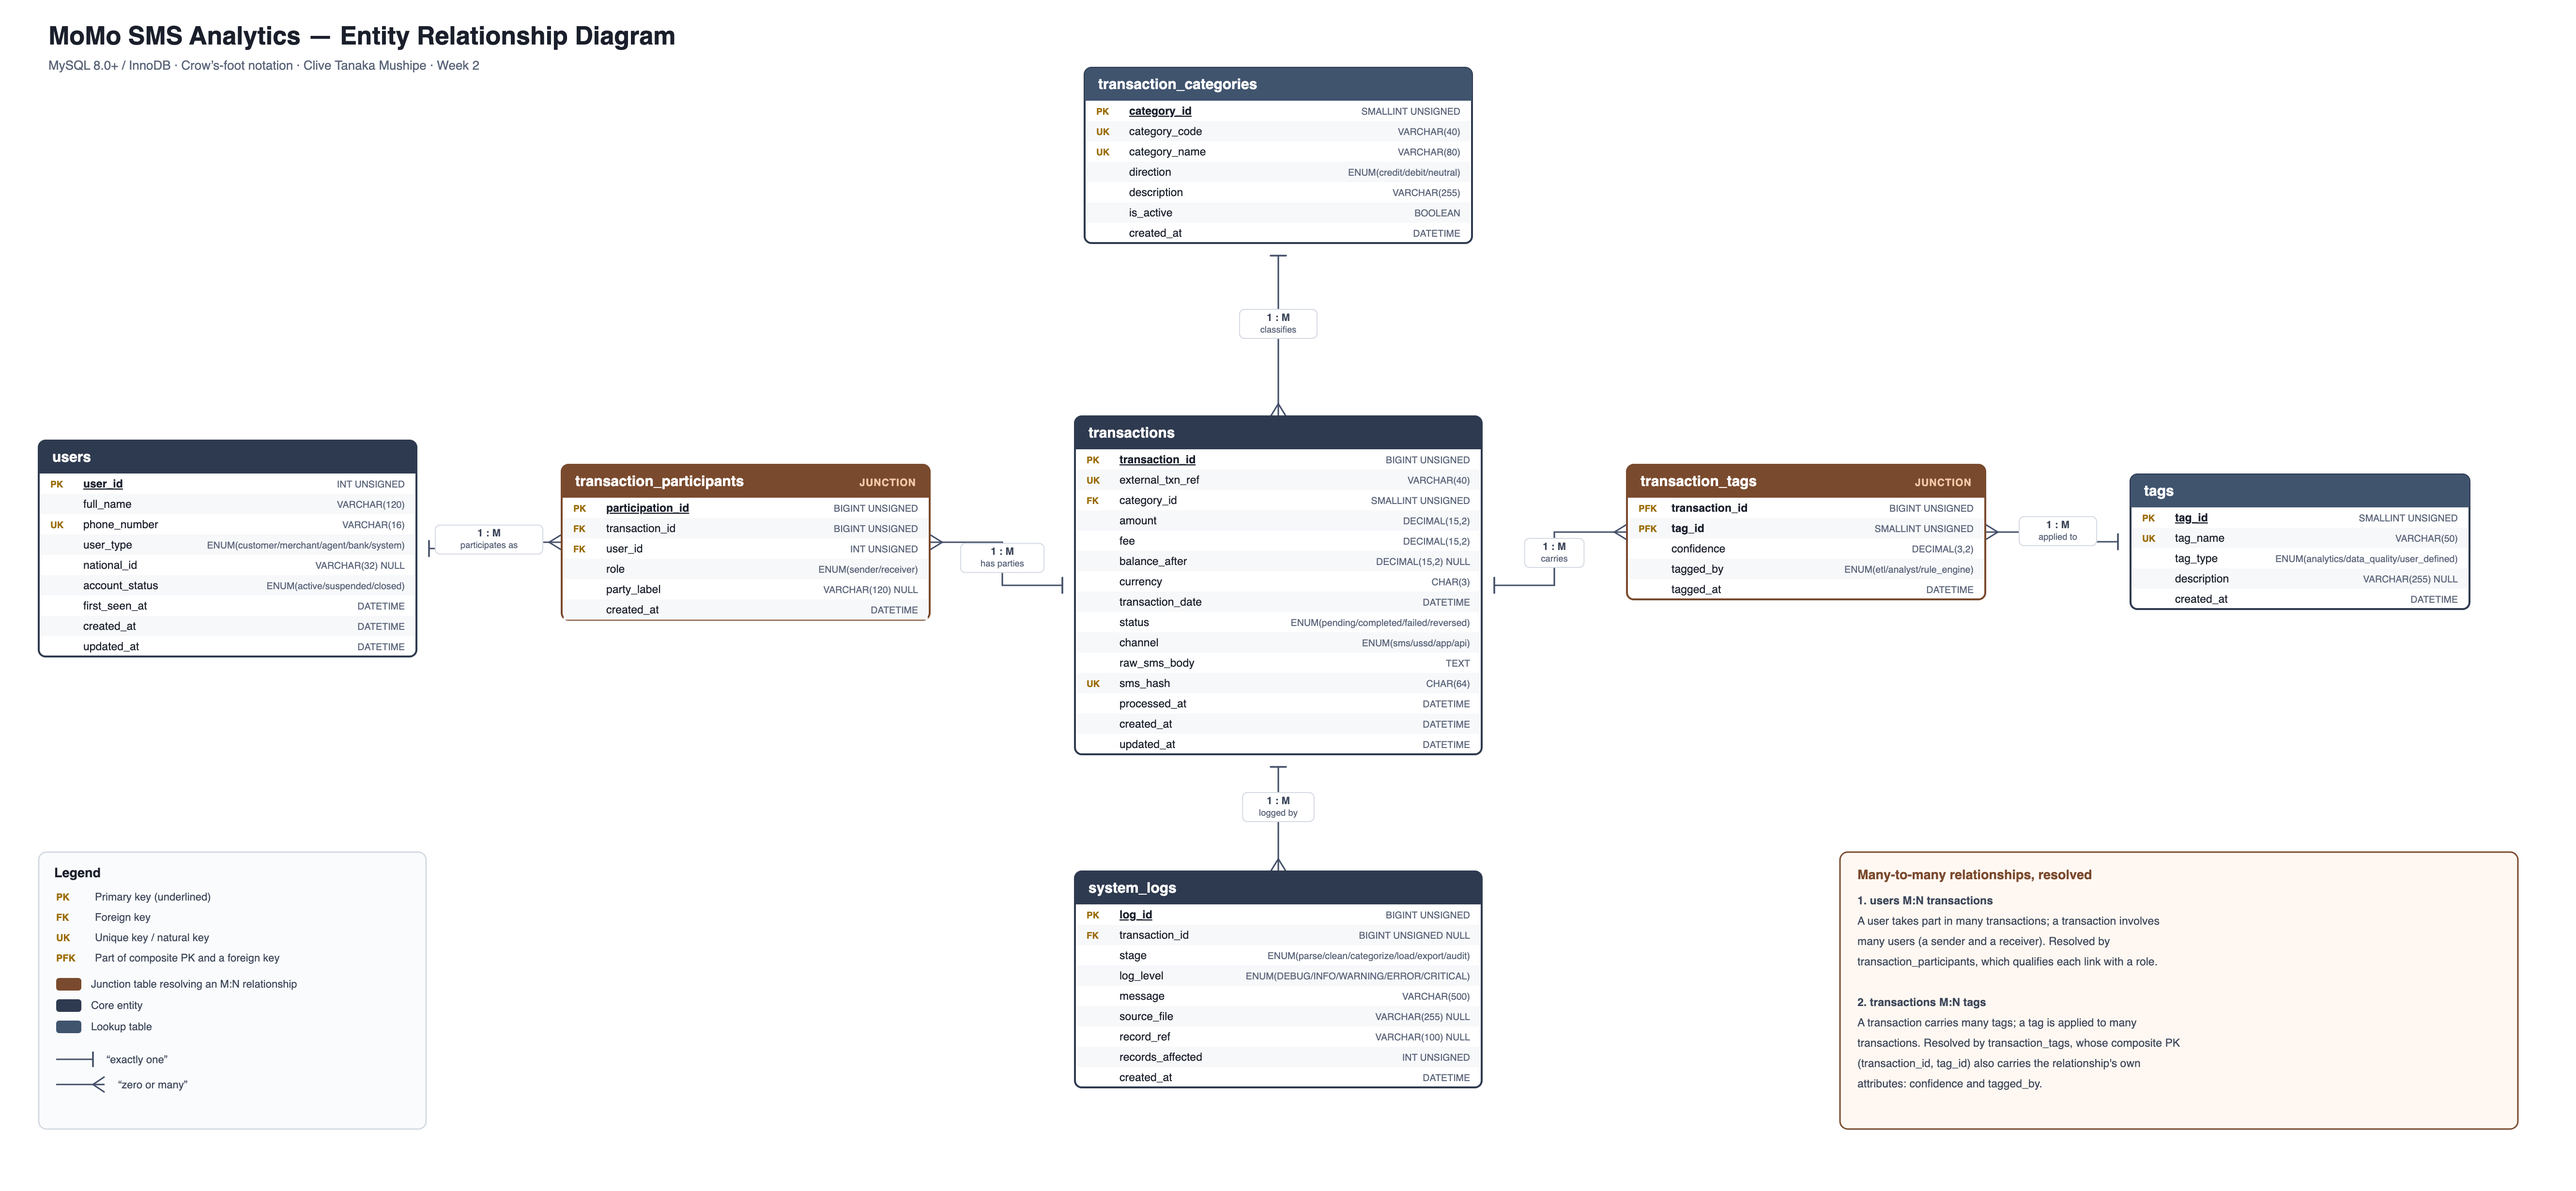
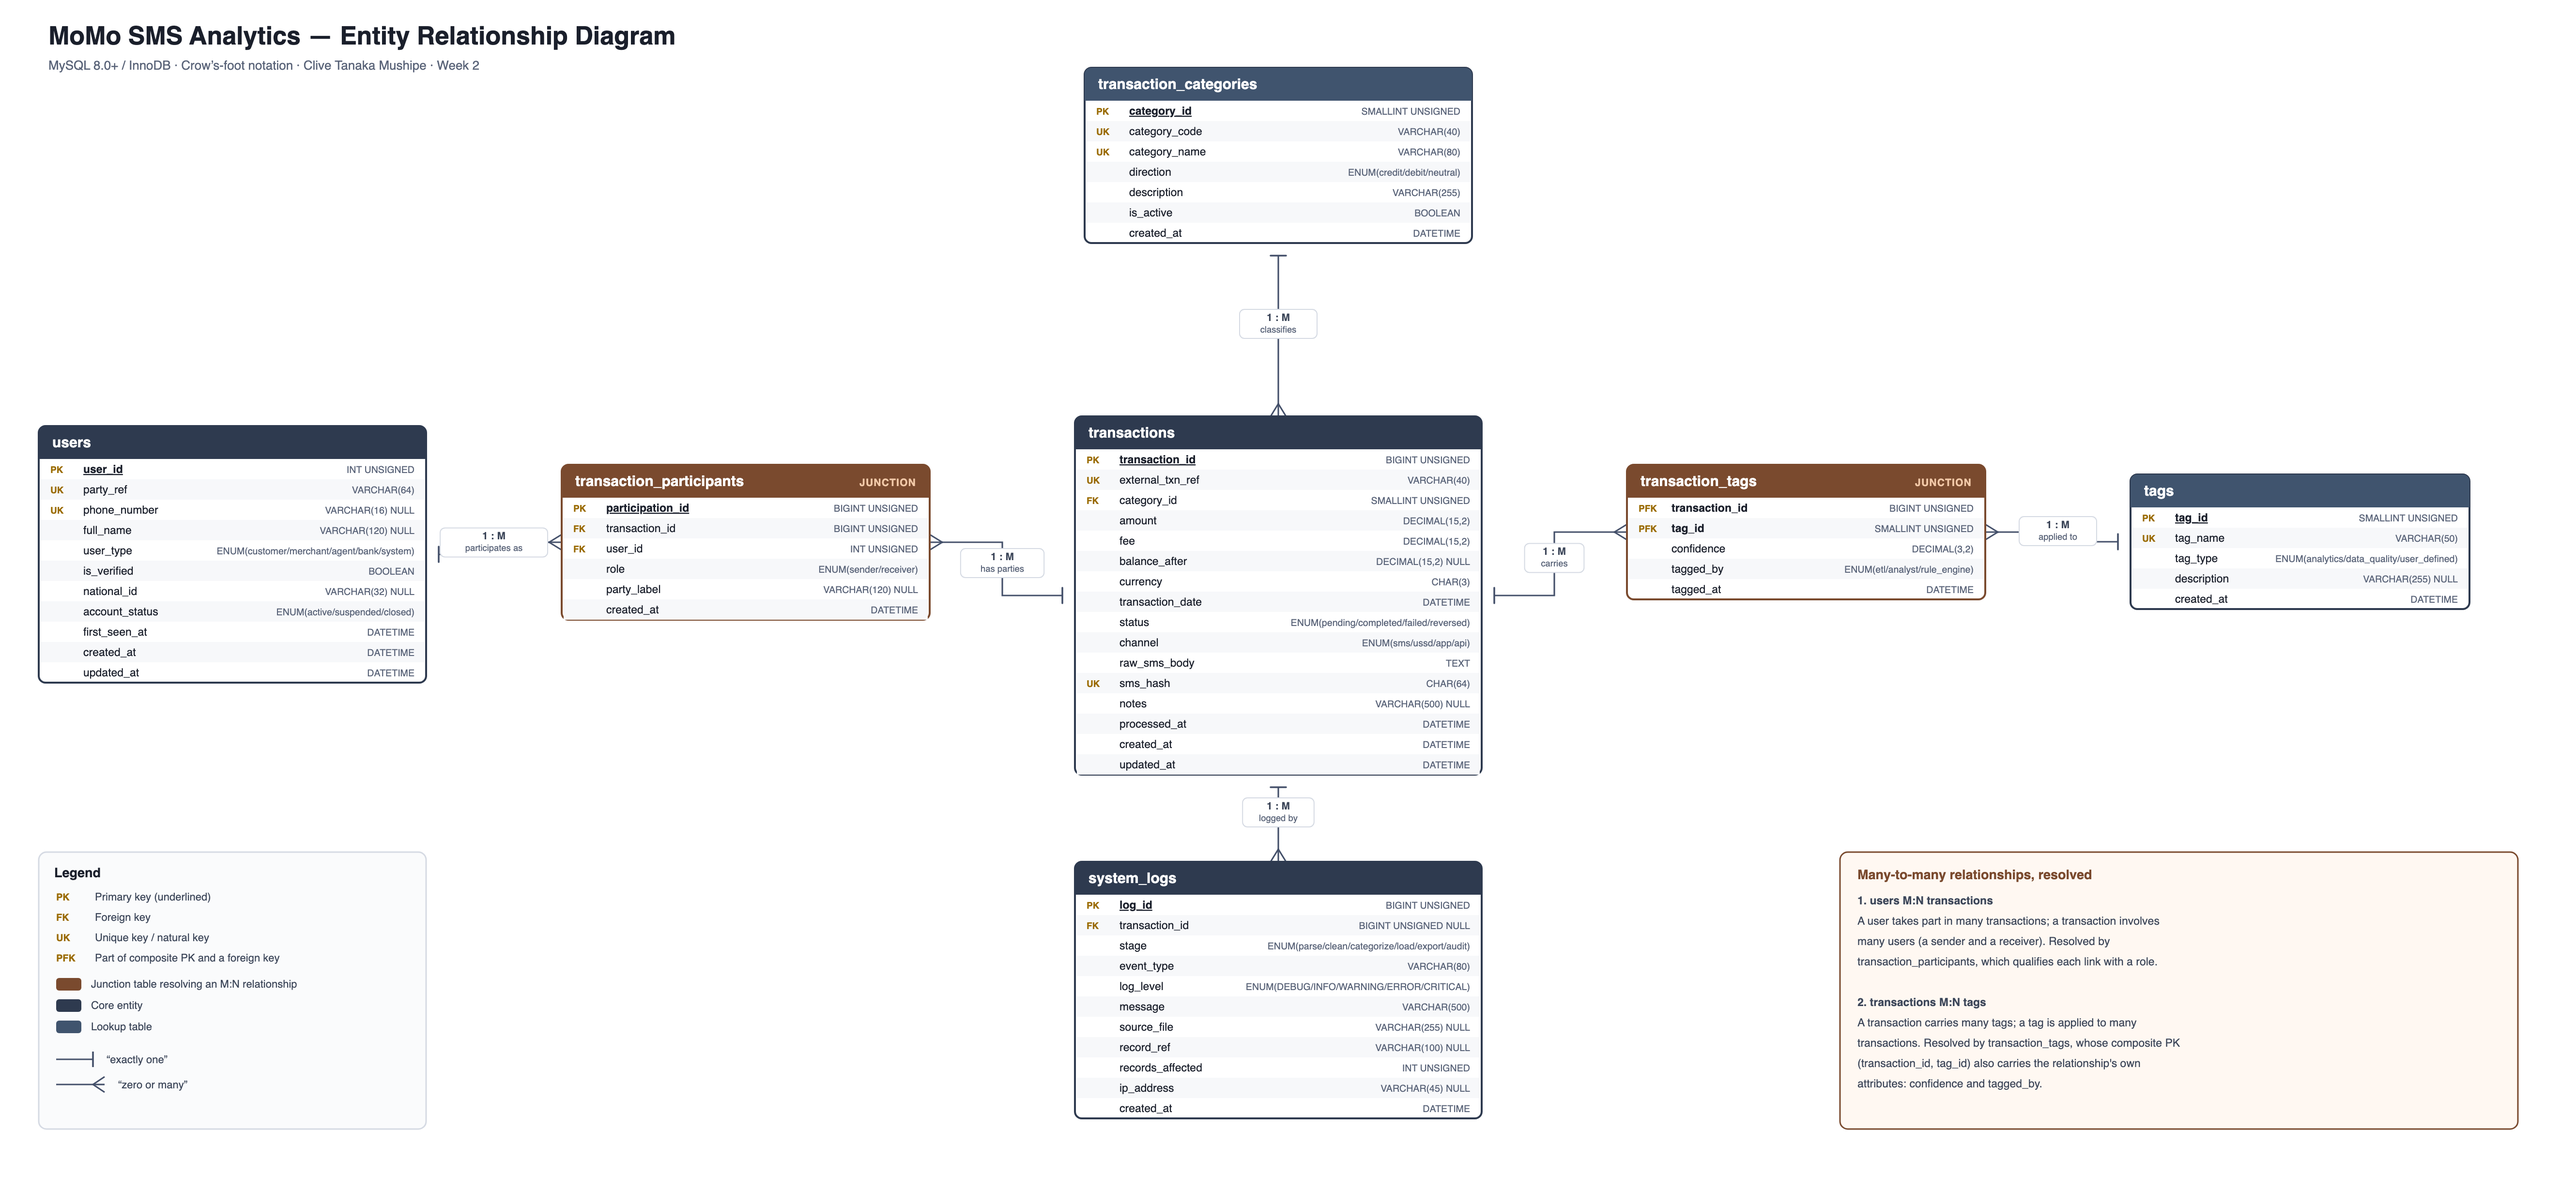
Adapt schema to real MoMo dataset; fix build artifact

diff --git a/scripts/build/make_erd.py b/scripts/build/make_erd.py
@@ -5,14 +5,15 @@ schema definition, so the three can never drift apart.
 
 Crow's-foot notation. PK/FK/UK marked. Junction tables highlighted.
 """
-import html
 import subprocess
+import tempfile
 import xml.sax.saxutils as sx
 from pathlib import Path
 
-REPO = Path("/Users/mac/Desktop/Database_Design_and_Implementation")
+# Resolved from this file's location (scripts/build/), not hardcoded, so the
+# script works from any clone and from any working directory.
+REPO = Path(__file__).resolve().parents[2]
 DOCS = REPO / "docs"
-TMP = Path(__file__).parent
 CHROME = "/Applications/Google Chrome.app/Contents/MacOS/Google Chrome"
 
 # ---------------------------------------------------------------------------
@@ -34,12 +35,14 @@ TABLES = [
         ("",   "is_active",     "BOOLEAN"),
         ("",   "created_at",    "DATETIME"),
     ]),
-    ("users", 40, 455, 390, "entity", [
+    ("users", 40, 440, 400, "entity", [
         ("PK", "user_id",        "INT UNSIGNED"),
-        ("",   "full_name",      "VARCHAR(120)"),
-        ("UK", "phone_number",   "VARCHAR(16)"),
+        ("UK", "party_ref",      "VARCHAR(64)"),
+        ("UK", "phone_number",   "VARCHAR(16) NULL"),
+        ("",   "full_name",      "VARCHAR(120) NULL"),
         ("",   "user_type",      "ENUM(customer/merchant/agent/bank/system)"),
-        ("",   "national_id",    "VARCHAR(32)  NULL"),
+        ("",   "is_verified",    "BOOLEAN"),
+        ("",   "national_id",    "VARCHAR(32) NULL"),
         ("",   "account_status", "ENUM(active/suspended/closed)"),
         ("",   "first_seen_at",  "DATETIME"),
         ("",   "created_at",     "DATETIME"),
@@ -66,6 +69,7 @@ TABLES = [
         ("",   "channel",          "ENUM(sms/ussd/app/api)"),
         ("",   "raw_sms_body",     "TEXT"),
         ("UK", "sms_hash",         "CHAR(64)"),
+        ("",   "notes",            "VARCHAR(500) NULL"),
         ("",   "processed_at",     "DATETIME"),
         ("",   "created_at",       "DATETIME"),
         ("",   "updated_at",       "DATETIME"),
@@ -84,15 +88,17 @@ TABLES = [
         ("",   "description", "VARCHAR(255) NULL"),
         ("",   "created_at",  "DATETIME"),
     ]),
-    ("system_logs", 1110, 900, 420, "entity", [
+    ("system_logs", 1110, 890, 420, "entity", [
         ("PK", "log_id",           "BIGINT UNSIGNED"),
         ("FK", "transaction_id",   "BIGINT UNSIGNED NULL"),
         ("",   "stage",            "ENUM(parse/clean/categorize/load/export/audit)"),
+        ("",   "event_type",       "VARCHAR(80)"),
         ("",   "log_level",        "ENUM(DEBUG/INFO/WARNING/ERROR/CRITICAL)"),
         ("",   "message",          "VARCHAR(500)"),
         ("",   "source_file",      "VARCHAR(255) NULL"),
         ("",   "record_ref",       "VARCHAR(100) NULL"),
         ("",   "records_affected", "INT UNSIGNED"),
+        ("",   "ip_address",       "VARCHAR(45) NULL"),
         ("",   "created_at",       "DATETIME"),
     ]),
 ]
@@ -488,18 +494,21 @@ def main():
     (DOCS / "erd_diagram.drawio").write_text(dio, encoding="utf-8")
     print(f"wrote erd_diagram.drawio ({len(dio)} bytes)")
 
-    # PNG via headless Chrome at 2x for a crisp print.
-    holder = TMP / "erd_holder.html"
-    holder.write_text(
-        f'<!DOCTYPE html><html><head><meta charset="utf-8">'
-        f'<style>html,body{{margin:0;padding:0;background:#fff;}}</style></head>'
-        f'<body>{svg}</body></html>', encoding="utf-8")
-    subprocess.run(
-        [CHROME, "--headless", "--disable-gpu", "--hide-scrollbars",
-         f"--screenshot={DOCS / 'erd_diagram.png'}",
-         f"--window-size={CANVAS_W},{CANVAS_H}",
-         "--force-device-scale-factor=2", holder.as_uri()],
-        check=True, capture_output=True)
+    # PNG via headless Chrome at 2x for a crisp print. The scratch HTML that
+    # wraps the SVG goes to a temp directory that is deleted on exit - writing
+    # it next to this script would leave a build artifact in the repo.
+    with tempfile.TemporaryDirectory(prefix="momo-erd-") as tmp:
+        holder = Path(tmp) / "erd_holder.html"
+        holder.write_text(
+            f'<!DOCTYPE html><html><head><meta charset="utf-8">'
+            f'<style>html,body{{margin:0;padding:0;background:#fff;}}</style></head>'
+            f'<body>{svg}</body></html>', encoding="utf-8")
+        subprocess.run(
+            [CHROME, "--headless", "--disable-gpu", "--hide-scrollbars",
+             f"--screenshot={DOCS / 'erd_diagram.png'}",
+             f"--window-size={CANVAS_W},{CANVAS_H}",
+             "--force-device-scale-factor=2", holder.as_uri()],
+            check=True, capture_output=True)
     print("wrote erd_diagram.png")
 
 

diff --git a/README.md b/README.md
@@ -102,6 +102,37 @@ two is perpetually NULL, and *"show me everything user X did"* becomes
 serve. The junction makes each participation one row, one index entry, one
 uniform query, and leaves room for a third role later without a migration.
 
+### Identifying parties that have no phone number
+
+The sample dataset in [`data/raw/modified_sms_v2.xml`](data/raw/) shows that not
+every counterparty is a phone subscriber:
+
+```xml
+<sms id="2" transaction_type="payment" amount="2000" sender="0789876543"
+     receiver="MTN:MoMoPay:Kigali_Mart" date="2024-01-04 10:30:00" .../>
+```
+
+A merchant till (`MTN:MoMoPay:Kigali_Mart`) and a service endpoint
+(`MTN:Airtime`) have no MSISDN at all, and the subscriber numbers that *are*
+present use the local `07XXXXXXXX` form rather than E.164. A `users` table keyed
+on a mandatory, strictly-formatted phone number cannot store this data.
+
+So `users` is keyed on **`party_ref`** — a canonical identifier that is always
+present and unique, holding either the normalised MSISDN or the service code.
+`phone_number` becomes a *nullable* secondary attribute that must still be valid
+E.164 when it is present:
+
+| Party | `party_ref` | `phone_number` | `user_type` |
+|---|---|---|---|
+| A customer | `+250789876543` | `+250789876543` | `customer` |
+| A merchant till | `MTN:MoMoPay:Kigali_Mart` | `NULL` | `merchant` |
+| Airtime service | `MTN:Airtime` | `NULL` | `system` |
+
+This keeps the accuracy guarantee — a phone number, if stored, is well-formed —
+without making it impossible to record the half of the dataset that has no phone
+number. Local `07…` numbers are normalised to `+250…` on the way in, so the same
+subscriber cannot be stored twice under two formats.
+
 ### Regenerating the diagram
 
 ```bash
